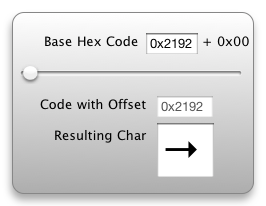
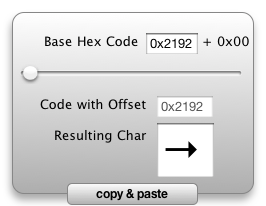
Experimental copy and paste function added, implemented using AppleScript. Currently only works when run using Dashcode, not Dashboard.

Changed region(s): [[0.2406, 0.8738, 0.7519, 1.0]]

diff --git a/Unicode Char Selector.dcproj/project/widget.wdgt/Parts/parts.js b/Unicode Char Selector.dcproj/project/widget.wdgt/Parts/parts.js
@@ -9,7 +9,7 @@
 var dashcodePartSupport = {
     "core": ["Parts/core/utilities.js", "Parts/core/core/base.js", "Parts/core/core/array-additions.js", "Parts/core/core/array-additions-ie.js", "Parts/core/core/set.js", "Parts/core/core/oop.js", "Parts/core/core/function-additions.js", "Parts/core/core/object-additions.js", "Parts/core/core/regex-additions.js", "Parts/core/core/local.js", "Parts/core/core/Error.js", "Parts/core/core/kvo.js", "Parts/core/core/Bindable.js", "Parts/core/core/SortDescriptor.js", "Parts/core/core/transformers.js", "Parts/core/core/Binding.js", "Parts/core/core/kvo-array.js", "Parts/core/core/kvo-array-operators.js", "Parts/core/core/model.js", "Parts/core/core/string-additions.js", "Parts/core/net/Deferred.js", "Parts/core/net/XHR.js", "Parts/core/controllers/Controller.js", "Parts/core/controllers/SelectionProxy.js", "Parts/core/controllers/ObjectController.js", "Parts/core/controllers/ArrayController.js", "Parts/core/controllers/AjaxController.js", "Parts/core/controllers/ModeledXMLProxy.js", "Parts/core/dom/element.js", "Parts/core/dom/event.js", "Parts/core/dom/element-ie.js", "Parts/core/dom/event-ie.js", "Parts/core/views/view-parts.js", "Parts/core/views/view-core.js", "Parts/core/views/Responder.js", "Parts/core/views/View.js", "Parts/core/views/ViewController.js", "Parts/core/views/ImageView.js", "Parts/core/views/ImageLayout.js", "Parts/core/views/DashcodePart.js", "Parts/core/views/FormControl.js", "Parts/core/views/TextField.js", "Parts/core/views/ListView.js", "Parts/core/views/SelectField.js", "Parts/core/views/ToggleButton.js", "Parts/core/views/SearchField.js", "Parts/core/views/Slider.js", "Parts/core/views/EventLoop.js", "Parts/core/views/Page.js", "Parts/core/views/Media.js", "Parts/core/views/Video.js", "Parts/core/views/VideoLayout.js", "Parts/core/views/VideoLegacy.js"],
     "imageBgParts": {},
-    "scripts": ["Parts/setup.js", "Parts/datasources.js", "Parts/InfoButton.js", "Parts/GlassButton.js", "Parts/HorizontalSlider.js"]
+    "scripts": ["Parts/setup.js", "Parts/datasources.js", "Parts/InfoButton.js", "Parts/GlassButton.js", "Parts/HorizontalSlider.js", "Parts/Button.js"]
 };
 
 (function() {
@@ -24,5 +24,6 @@ var dashcodePartSupport = {
         document.write( scriptTag );
     }    
 })();
+
 
 

diff --git a/Unicode Char Selector.dcproj/project/widget.wdgt/Parts/Button.js b/Unicode Char Selector.dcproj/project/widget.wdgt/Parts/Button.js
@@ -1,0 +1,46 @@
+/* 
+ This file was generated by Dashcode and is covered by the 
+ license.txt included in the project.  You may edit this file, 
+ however it is recommended to first turn off the Dashcode 
+ code generator otherwise the changes will be lost.
+ */
+
+function CreateButton(elementOrID, spec)
+{
+    var buttonElement = elementOrID;
+    if (elementOrID.nodeType != Node.ELEMENT_NODE) {
+        buttonElement = document.getElementById(elementOrID);
+    }
+    
+	if (!buttonElement.loaded) {
+		buttonElement.loaded = true;
+        while (buttonElement.firstChild) {
+            buttonElement.removeChild(buttonElement.firstChild);
+        }
+
+		var text = spec.text || '';
+		if (window.dashcode && dashcode.getLocalizedString) text = dashcode.getLocalizedString(text);
+
+		var leftImageWidth = spec.leftImageWidth || 0;
+		var rightImageWidth = spec.rightImageWidth || 0;
+        // when cloning template, get size from original
+        var styleElement = buttonElement;
+        if (spec.originalID) {
+            styleElement = document.getElementById(spec.originalID);
+        }
+		var imagePrefix = "Parts/Images/" + styleElement.id + "_";
+        var width = dashcode.getElementWidth(styleElement) || 20;
+		var height = dashcode.getElementHeight(styleElement) || 20;
+		
+		var onclick = spec.onclick || null;
+		try { onclick = eval(onclick); } catch (e) { onclick = null; }
+
+		buttonElement.object = new AppleButton(buttonElement, text, height, imagePrefix + "left.png", imagePrefix + "left_clicked.png", leftImageWidth, imagePrefix + "middle.png", imagePrefix + "middle_clicked.png", imagePrefix + "right.png", imagePrefix + "right_clicked.png", rightImageWidth, onclick);
+        buttonElement.object.element = buttonElement;
+		buttonElement.object._container.childNodes[2].style.width = rightImageWidth + "px";
+		buttonElement.object.setEnabled(!spec.disabled);
+		buttonElement.object.textElement.style.width = (width - (leftImageWidth + rightImageWidth)) + "px";
+	}
+
+	return buttonElement.object;
+}

diff --git a/Unicode Char Selector.dcproj/project/widget.wdgt/main.html b/Unicode Char Selector.dcproj/project/widget.wdgt/main.html
@@ -23,6 +23,7 @@
         <div id="lbl_resulting_sign" apple-part="com.apple.Dashcode.part.text" class="apple-text apple-no-children" apple-text-overflow="ellipsis"></div>
         <div id="lbl_resulting_code" apple-part="com.apple.Dashcode.part.text" class="apple-text apple-no-children" apple-text-overflow="ellipsis"></div>
         <div id="lbl_offset" apple-part="com.apple.Dashcode.part.text" class="apple-text apple-no-children" apple-text-overflow="ellipsis" apple-style="part-height-dependent: true;"></div>
+        <div id="button" apple-part="com.apple.Dashcode.part.roundedtextbutton" class="apple-no-children" apple-style="image-theme: 1; image-shape: 3; image-button-type: 0; image-opacity: 1.00; image-top-color: 1,1,1,1; image-bottom-color: 0.6154,0.6154,0.6154,1; image-radius: 5,5,5,5; image-border: 1; image-border-color: 0.5294,0.5294,0.5294,1; image-border-width: 1; shine-strength: 0.90; shine-alpha-level: 0.67; shine-height: 0.50; glass-arc-height: 0.06; shadow-include-shadow: 0;"></div>
     </div>
     <div id="back">
         <img id="backImg" src="Parts/Images/back.png" alt="" apple-locked="true" apple-part="com.apple.Dashcode.part.backimage" apple-style=" image-radius: 12,12,12,12; image-border: 1; image-border-color: 0.1500,0.1500,0.1500; image-border-width: 3; shadow-include-shadow: 1; shadow-blur: 9.00; shadow-offset: -1.00,-6.00; shadow-color: 0.0000,0.0000,0.0000,0.3333;">

diff --git a/Unicode Char Selector.dcproj/project/widget.wdgt/main.js b/Unicode Char Selector.dcproj/project/widget.wdgt/main.js
@@ -210,3 +210,17 @@ function changedMultiplicator(event)
 {
     setSliderMultiplicator(event.target.value);
 }
+
+
+function pasteToApplication(event)
+{
+    // source: http://forums.macosxhints.com/showthread.php?t=46078 and http://forums.macosxhints.com/showthread.php?p=117551#post117551
+    
+    var sliderPosMult = Math.round(getSliderMultiplicator()*sliderPos);
+    //var script = "/usr/bin/osascript -e 'tell application \"System Events\"' -e 'tell process \"finder\"' -e 'activate' -e 'keystroke tab using {command down}' -e 'end tell' -e 'set front_app to (path to frontmost application as Unicode text)' -e 'tell application front_app' -e 'activate' -e 'set clipboardStack to the clipboard' -e 'set the clipboard to \"" + String.fromCharCode(rechne(document.getElementById("base").value,'dec')+sliderPosMult) + "\"' -e 'keystroke \"v\" using {command down}' -e 'set the clipboardStack to d' -e 'end tell' -e 'end tell'";
+    //script = "/usr/bin/osascript -e 'beep 5'";
+    //script = "/usr/bin/osascript -e 'tell application \"TextEdit\"' -e 'set text of document 1 to text of document 1 & character id 300' -e 'end tell'";
+    var script = "/usr/bin/osascript ./bin/paste-char.scpt " + String.fromCharCode(rechne(document.getElementById("base").value,'dec')+sliderPosMult);
+    widget.system(script, null);
+    //widget.openApplication("com.apple.Dock");
+}

diff --git a/Unicode Char Selector.dcproj/project/widget.wdgt/Parts/setup.js b/Unicode Char Selector.dcproj/project/widget.wdgt/Parts/setup.js
@@ -5,6 +5,7 @@
  code generator otherwise the changes will be lost.
  */
 var dashcodePartSpecs = {
+    "button": { "creationFunction": "CreateButton", "leftImageWidth": 5, "onclick": "pasteToApplication", "rightImageWidth": 5, "text": "copy & paste" },
     "done": { "creationFunction": "CreateGlassButton", "onclick": "showFront", "text": "Fertig" },
     "image": { "view": "DC.ImageLayout" },
     "info": { "backgroundStyle": "black", "creationFunction": "CreateInfoButton", "foregroundStyle": "white", "frontID": "front", "onclick": "showBack" },
@@ -17,6 +18,7 @@ var dashcodePartSpecs = {
     "offset_slider": { "continuous": true, "creationFunction": "CreateHorizontalSlider", "onchange": "sliderHandler" },
     "PhilippKlaus": { "text": "Philipp Klaus", "view": "DC.Text" }
 };
+
 
 
 

diff --git a/Unicode Char Selector.dcproj/project/widget.wdgt/main.css b/Unicode Char Selector.dcproj/project/widget.wdgt/main.css
@@ -271,3 +271,20 @@ body {
 .selected #lbl_offset {
     color: white;
 }
+
+#button {
+    font-family: HelveticaNeue-Bold;
+    font-size: 12px;
+    text-align: center;
+    cursor: default;
+    -khtml-user-select: none;
+    position: absolute;
+    right: auto;
+    margin-top: 0px;
+    overflow: hidden;
+    width: 131px;
+    left: 67px;
+    top: 183px;
+    bottom: 1px;
+    height: auto;
+}

diff --git a/Unicode Char Selector.dcproj/project/widget.wdgt/de.lproj/localizedStrings.js b/Unicode Char Selector.dcproj/project/widget.wdgt/de.lproj/localizedStrings.js
@@ -6,12 +6,14 @@
 */
 var localizedStrings = {
     "Ausgangsadresse": "Ausgangsadresse",
+    "copy & paste": "kopieren & einfügen",
     "eingestellter Code": "resultierender Code",
     "Fertig": "Fertig",
     "made by": "erstellt von",
     "resultierendes Zeichen": "resultierendes Zeichen",
     "Schieberegler Empfindlichkeit": "Schieberegler Empfindlichkeit"
 };
+
 
 
 

diff --git a/Unicode Char Selector.dcproj/project/widget.wdgt/en.lproj/localizedStrings.js b/Unicode Char Selector.dcproj/project/widget.wdgt/en.lproj/localizedStrings.js
@@ -6,12 +6,14 @@
 */
 var localizedStrings = {
     "Ausgangsadresse": "Base Hex Code",
+    "copy & paste": "copy & paste",
     "eingestellter Code": "Code with Offset",
     "Fertig": "Done",
     "made by": "made by",
     "resultierendes Zeichen": "Resulting Char",
     "Schieberegler Empfindlichkeit": "Slider Sensitivity"
 };
+
 
 
 
